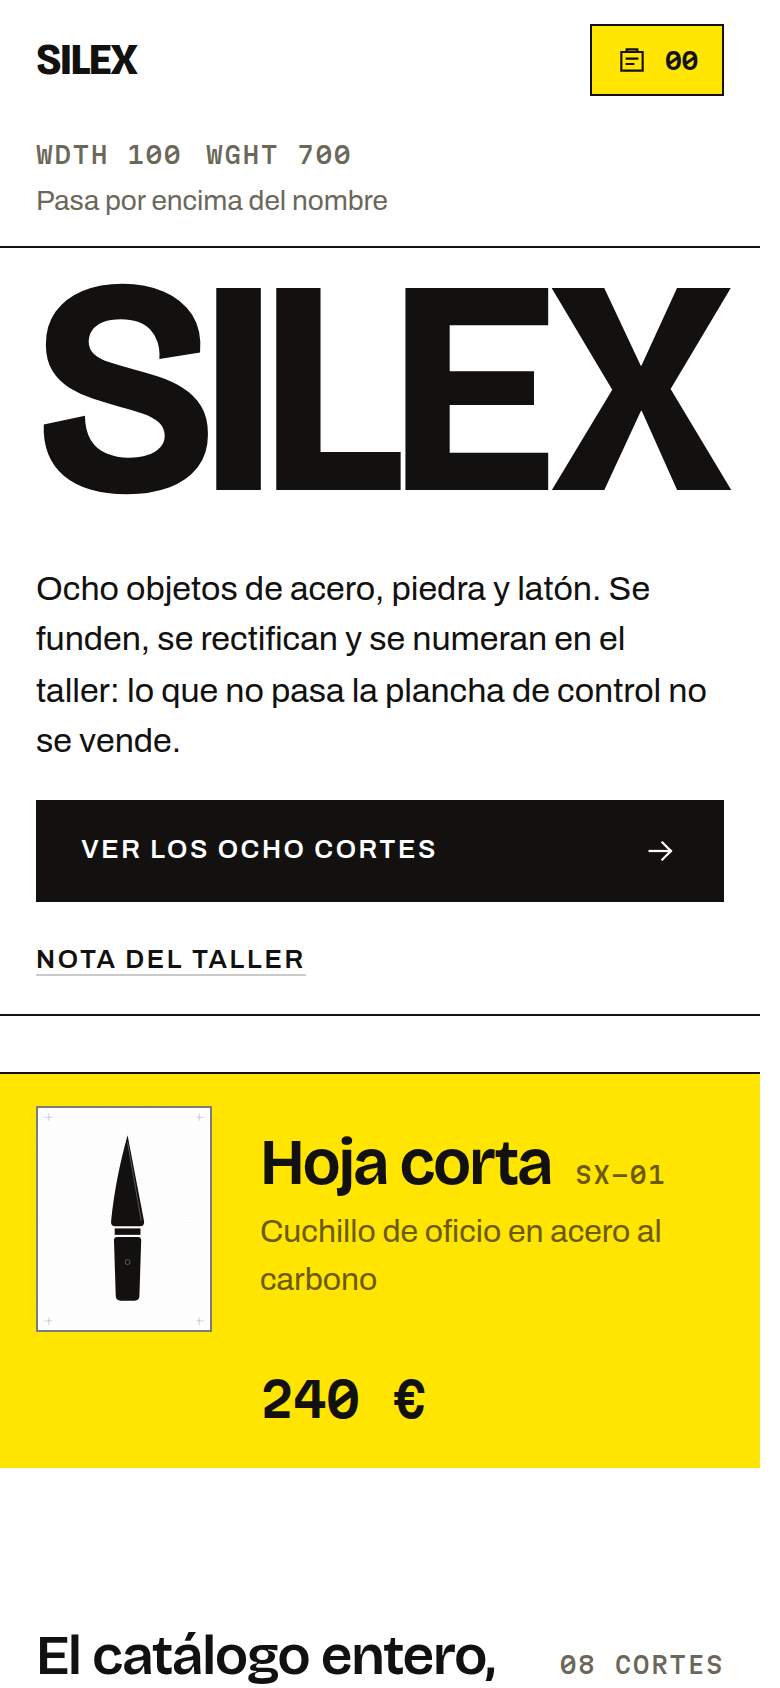
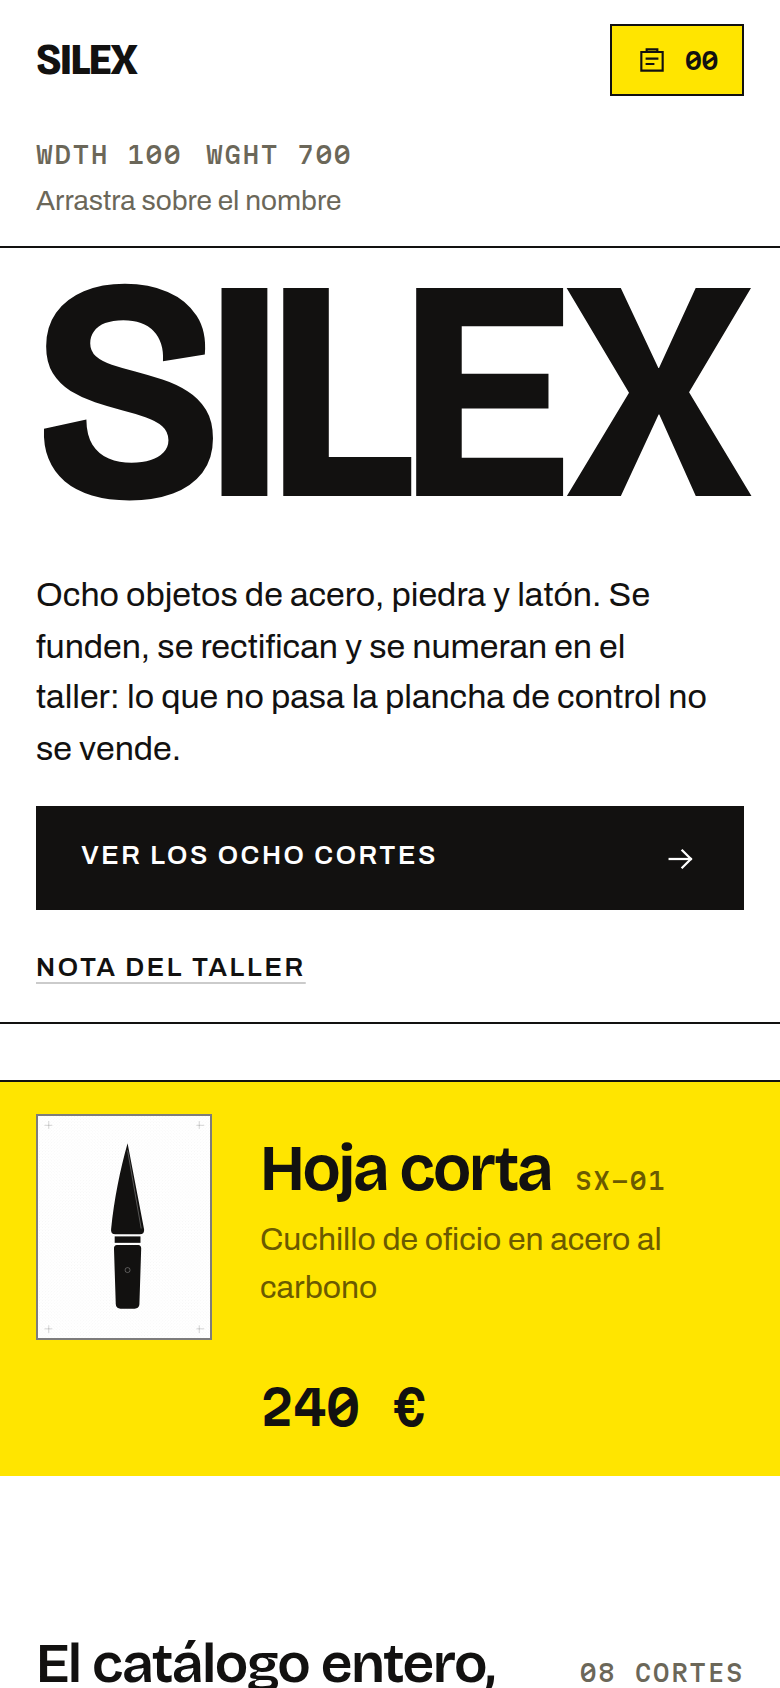
Silex: cerrar el hallazgo abierto y las dos regresiones del lote
- La instrucción del probador ya no depende de la hidratación: las
  dos frases se sirven en el HTML y la consulta de puntero elige.
  Verificado con emulación táctil real, no con el viewport a secas
- Las leyendas de las planchas no parten la referencia a su propia
  línea en 390px: nowrap en la referencia y el nombre envuelve detrás
- La columna de la oferta pasa de 30 a 47 caracteres por línea, así
  el párrafo no queda de sobra al lado del nombre
- --tinta-tenue queda eliminado: ya no lo usaba nadie

Claude-Session: https://claude.ai/code/session_01BshfbEt1xVp1dCm6gWDXc1

diff --git a/silex/components/Probador.tsx b/silex/components/Probador.tsx
@@ -24,12 +24,10 @@ export default function Probador({ primero }: { primero: Corte | undefined }) {
   const [ejes, setEjes] = useState(ARRANQUE);
   const [vivo, setVivo] = useState(false);
   const [tocado, setTocado] = useState(false);
-  const [grueso, setGrueso] = useState(false);
   const zona = useRef<HTMLDivElement>(null);
   const espectro = useRef<HTMLHeadingElement>(null);
 
   useEffect(() => {
-    setGrueso(window.matchMedia('(pointer: coarse)').matches);
     const reducido = window.matchMedia('(prefers-reduced-motion: reduce)').matches;
     if (reducido) {
       setEjes(REPOSO);
@@ -91,12 +89,6 @@ export default function Probador({ primero }: { primero: Corte | undefined }) {
     setEjes(REPOSO);
   }, [vivo]);
 
-  const instruccion = tocado
-    ? 'Suelta y vuelve a su corte'
-    : grueso
-      ? 'Arrastra sobre el nombre'
-      : 'Pasa por encima del nombre';
-
   return (
     <section className={estilos.primerPliego} aria-labelledby="titulo-silex">
       <div className={estilos.franjaAlta}>
@@ -104,7 +96,19 @@ export default function Probador({ primero }: { primero: Corte | undefined }) {
           <span>wdth {ejes.wdth}</span>
           <span>wght {ejes.wght}</span>
         </p>
-        <p className={`margenNota ${estilos.instruccion}`}>{instruccion}</p>
+        {/* El gesto lo decide el CSS, no el JS: qué puntero hay es una
+            consulta de medio, y así la frase es correcta ya en el HTML
+            servido, sin esperar a la hidratación. */}
+        <p className={`margenNota ${estilos.instruccion}`}>
+          {tocado ? (
+            'Suelta y vuelve a su corte'
+          ) : (
+            <>
+              <span className={estilos.conPuntero}>Pasa por encima del nombre</span>
+              <span className={estilos.conDedo}>Arrastra sobre el nombre</span>
+            </>
+          )}
+        </p>
       </div>
 
       <div ref={zona} className={estilos.zonaEspectro} onPointerMove={alMover} onPointerLeave={alSalir}>

diff --git a/silex/app/globals.css b/silex/app/globals.css
@@ -9,10 +9,9 @@
   /* --- Tinta y papel ------------------------------------- */
   --papel: #ffffff;
   --tinta: #121110;
-  --tinta-media: #6b6759; /* 5,3:1 sobre papel */
-  /* Sólo para filetes y separadores decorativos. Cualquier texto que
-     se lea usa --tinta-media: por debajo no se llega al 4,5:1. */
-  --tinta-tenue: rgba(18, 17, 16, 0.55);
+  /* El único tono secundario para texto. 5,66:1 sobre papel: por
+     debajo de este no se compone nada que haya que leer. */
+  --tinta-media: #6b6759;
   --filete: rgba(18, 17, 16, 0.22);
   --filete-firme: rgba(18, 17, 16, 0.55);
 

diff --git a/silex/components/SetDePiezas.module.css b/silex/components/SetDePiezas.module.css
@@ -30,14 +30,19 @@
   text-decoration: none;
 }
 
+/* La referencia nunca cae sola a su propia línea: en estrecho eso la
+   convertiría en el antetítulo que esta casa no usa. */
 .leyenda {
   display: flex;
+  flex-wrap: nowrap;
   align-items: baseline;
   gap: 0.6rem;
   padding-top: 0.7rem;
 }
 
 .refPieza {
+  flex: none;
+  white-space: nowrap;
   color: var(--tinta-media);
   transition: color var(--normal) var(--salida);
 }
@@ -47,6 +52,7 @@
 }
 
 .nombrePieza {
+  min-width: 0;
   font-family: var(--display);
   font-size: clamp(1.05rem, 1.5vw, 1.3rem);
   font-weight: 620;

diff --git a/silex/components/Probador.module.css b/silex/components/Probador.module.css
@@ -22,11 +22,25 @@
   text-align: right;
 }
 
+.conDedo {
+  display: none;
+}
+
+@media (pointer: coarse) {
+  .conPuntero {
+    display: none;
+  }
+
+  .conDedo {
+    display: inline;
+  }
+}
+
 /* El nombre a sangre a la izquierda y, a su costado, la oferta y la
    acción: el primer pliego entero en una mirada. */
 .zonaEspectro {
   display: grid;
-  grid-template-columns: minmax(0, 1fr) minmax(15rem, 21rem);
+  grid-template-columns: minmax(0, 1fr) minmax(17rem, 26rem);
   align-items: end;
   gap: clamp(1.5rem, 3vw, 3rem);
   padding-inline: var(--margen);
